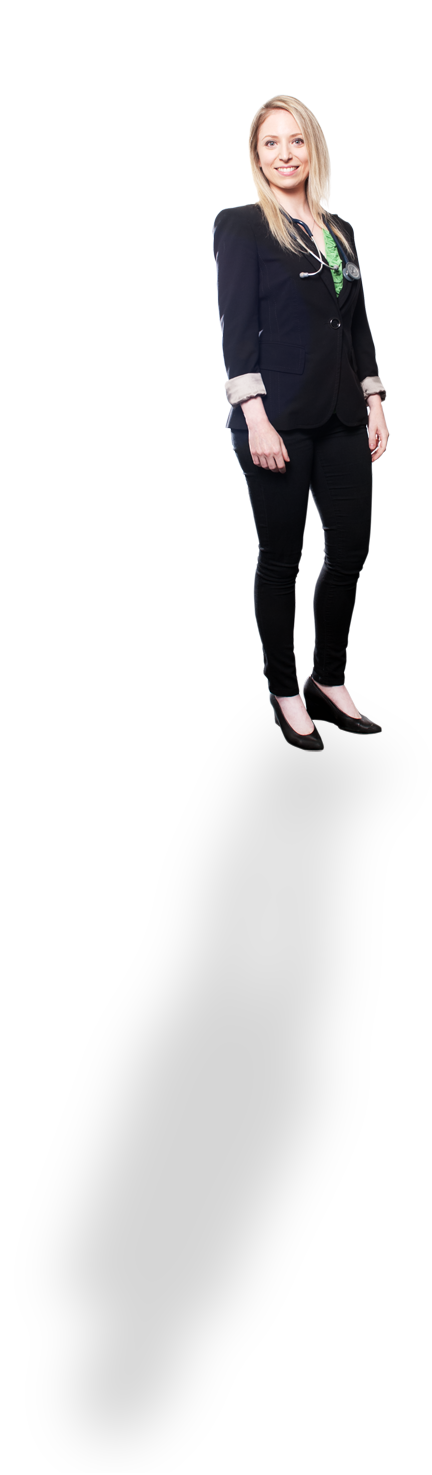
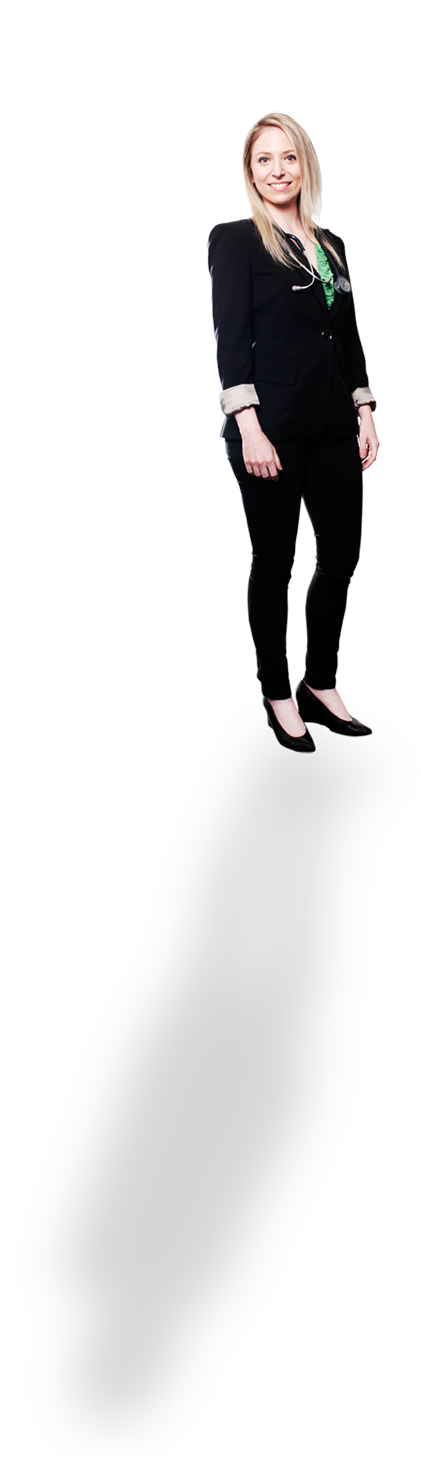
finish adding coach

Changed region(s): [[0.4941, 0.0624, 0.8955, 0.4678], [0.6176, 0.4054, 0.8955, 0.5302], [0.6793, 0.3119, 0.772, 0.4054]]

diff --git a/coaches.html b/coaches.html
@@ -85,13 +85,13 @@
     <!-------Content for MARDI BAUM------>
     <div class="contentContainer" id="cont2">
       <div class="contentBox">
-        <h1><span style='font-size:26px;'><span class='orangeText'>MARDI</span> BAUM</span></h1><p>As a naturopathic doctor, Dr. Mardi Baum is very passionate about health promotion, disease prevention and helping her patients feel their best. She believes that the body has a true ability to heal itself and that gentle, non-invasive approaches can help facilitate this healing process.</p><p>Dr. Baum runs a family practice, with a focus on nutrition and lifestyle counseling and supplementation.  She treats a variety of health conditions and has a special interest in digestive, hormonal and stress related concerns.</p><p>After a comprehensive intake and relevant lab work, Dr. Baum helps her patients achieve their goals through a customized treatment plan targeting the root cause of their health concerns.  She also places a strong emphasis on patient education. She believes an integrative approach is beneficial to optimal care and is committed to working with other health care practitioners. Dr. Baum is eager to expand her knowledge and regularly attends naturopathic conferences and seminars.</p><p>Dr. Baum has always enjoyed being active but has never felt better since starting to weight train at Reach Personal Training.  She is very excited to be joining the team.</p><p>Education and Certifications:</p><ul><li>Doctor of Naturopathic Medicine (ND) from The Canadian College of Naturopathic Medicine</li><li>1 month externship in Vietnam at a Traditional Chinese Medicine hospital</li><li>Pediatric specialty shift at the Robert Schad Naturopathic Clinic</li><li>Internship at the Anishnawbe Health Centre</li><li>Registered and in good standing with the Board of Directors of Drugless Therapy - Naturopathy</li><li>Level 1 Reiki</li><li>Healthy Breast Teacher Training Course</li><li>Healthy and Active Metabolism Program</li><li>BSc in Honours Psychology from The University of Western Ontario</li></ul>
+        <h1><span style='font-size:26px;'><span class='orangeText'>MARDI</span> BAUM</span></h1><p>As a naturopathic doctor, Dr. Mardi Baum is very passionate about health promotion, disease prevention and helping her patients feel their best. She believes that the body has a true ability to heal itself and that gentle, non-invasive approaches can help facilitate this healing process.</p><p>Dr. Baum runs a family practice, with a focus on nutrition and lifestyle counseling and supplementation.  She treats a variety of health conditions and has a special interest in digestive, hormonal and stress related concerns.</p><p>After a comprehensive intake and relevant lab work, Dr. Baum helps her patients achieve their goals through a customized treatment plan targeting the root cause of their health concerns.  She also places a strong emphasis on patient education. She believes an integrative approach is beneficial to optimal care and is committed to working with other health care practitioners. Dr. Baum is eager to expand her knowledge and regularly attends naturopathic conferences and seminars.</p><p>Dr. Baum has always enjoyed being active but has never felt better since starting to weight train at Reach Personal Training.  She is very excited to be joining the team.</p><p style="font-family: 'Gotham-Medium', sans-serif;">Education and certifications:</p><ul><li>Doctor of Naturopathic Medicine (ND) from The Canadian College of Naturopathic Medicine</li><li>1 month externship in Vietnam at a Traditional Chinese Medicine hospital</li><li>Pediatric specialty shift at the Robert Schad Naturopathic Clinic</li><li>Internship at the Anishnawbe Health Centre</li><li>Registered and in good standing with the Board of Directors of Drugless Therapy - Naturopathy</li><li>Level 1 Reiki</li><li>Healthy Breast Teacher Training Course</li><li>Healthy and Active Metabolism Program</li><li>BSc in Honours Psychology from The University of Western Ontario</li></ul>
       </div>
     </div>
     <!-------Content for JACOB LAY------>
     <div class="contentContainer" id="cont3">
       <div class="contentBox">
-        <h1><span style='font-size:26px;'><span class='orangeText'>JACOB</span> LAY</span></h1><p>Jacob firmly believes that a healthy psychology and internal awareness are the essential components of any type of training. Over the last 10 years he has been actively involved in the health and fitness industry as an athlete, trainer, practitioner and teacher.</p><p>Jacob has participated in the Training in Power Academy, an energy based meditation system. Jacob joined the faculty as a teacher of the foundational program last year and currently studies at an advanced level in multiple programs, including the Master Warrior program.</p><p>As a personal trainer and strength coach he is experienced and certified to help you obtain your goals in weight loss, structural balance, muscle gain and functional strength.</p><p><span style='font-weight:bold;'>Education and Certifications:</span><ul><li>Poliquin International Certification Program (P.I.C.P.) Level I and II Strength Coach (June 2012), Poliquin Performance</li><li>Upper Body Strength Certification, Ido Portal</li><li>Modified Strongman and Energy Systems Training, Eoin Lacey</li><li>Level 7 Training in Power Practitioner and Teacher, TIP Academy</li><li>Year 7 Master Warriors, TIP Academy</li><li>Traditional Chinese Medicine Practitioner, Dipl.TCM</li><li>BioSignature&#153; Practitioner, Poliquin Performance</li><li>Flexibility Highways &#8211; Dynamic Myofascial Training System, Chuck Wolf</li><li>Personal Training Specialist, CanFit Pro</li><li>First Aid and CPR certified</li></ul>
+        <h1><span style='font-size:26px;'><span class='orangeText'>JACOB</span> LAY</span></h1><p>Jacob firmly believes that a healthy psychology and internal awareness are the essential components of any type of training. Over the last 10 years he has been actively involved in the health and fitness industry as an athlete, trainer, practitioner and teacher.</p><p>Jacob has participated in the Training in Power Academy, an energy based meditation system. Jacob joined the faculty as a teacher of the foundational program last year and currently studies at an advanced level in multiple programs, including the Master Warrior program.</p><p>As a personal trainer and strength coach he is experienced and certified to help you obtain your goals in weight loss, structural balance, muscle gain and functional strength.</p><p style="font-family: 'Gotham-Medium', sans-serif;">Education and certifications:</p><ul><li>Poliquin International Certification Program (P.I.C.P.) Level I and II Strength Coach (June 2012), Poliquin Performance</li><li>Upper Body Strength Certification, Ido Portal</li><li>Modified Strongman and Energy Systems Training, Eoin Lacey</li><li>Level 7 Training in Power Practitioner and Teacher, TIP Academy</li><li>Year 7 Master Warriors, TIP Academy</li><li>Traditional Chinese Medicine Practitioner, Dipl.TCM</li><li>BioSignature&#153; Practitioner, Poliquin Performance</li><li>Flexibility Highways &#8211; Dynamic Myofascial Training System, Chuck Wolf</li><li>Personal Training Specialist, CanFit Pro</li><li>First Aid and CPR certified</li></ul>
       </div>
     </div>
      <!-------Content for ADENA CLARFIELD------>
@@ -103,13 +103,13 @@
     <!-------Content for BEN CLARFIELD------>
     <div class="contentContainer" id="cont5">
       <div class="contentBox">
-        <h1><span style='font-size:26px;'><span class='orangeText'>BEN</span> CLARFIELD</span></h1><p>Ben believes that achieving goals is dependent on both physical and mental strength. Ben helps his clients lose fat, rehabilitate injuries, build muscle and improve their strength. Ben is a Level II P.I.C.P. regional strength coach and BioSignature practitioner. Ben has trained with Charles Poliquin, one of the top strength coaches in the world, at the Eleiko Institute in Sweden and at the Poliquin Strength Institute in Rhode Island.</p><p>Ben has always participated in physical activity. A native of Kenya, Ben played rugby, ran track and field, played semi-professional basketball, achieved Dan ranking in WTF Taekwondo, travelled to Japan to train in Taijitsu, and is a former IDF soldier.</p><p>Ben moved back to Canada for university and injured his knee playing basketball. This experience taught him the process of rehabilitation and inspired him to help others.</p><span style='font-weight:bold;'>Education and Certifications:</span><ul><li>Poliquin International Certification Program (P.I.C.P.) Level I and II Strength Coach, Poliquin Performance</li><li>Poliquin Instant Muscle Strengthening Technique (PIMST), Poliquin Performance</li><li>Upper Body Strength Certification, Ido Portal</li><li>Modified Strongman and Energy Systems Training, Eoin Lacey</li><li>Internship with Preston Greene -Head Strength and Conditioning Coach of the University of Florida Gators Men&#39;s Basketball Team</li><li>John Broz Weightlifting Seminar</li><li>BioSignature&#153; Practitioner, Poliquin Performance</li><li>Personal Training Specialist, CanFit Pro</li><li>Masters Medieval Philosophy at the University of Toronto</li></ul>
+        <h1><span style='font-size:26px;'><span class='orangeText'>BEN</span> CLARFIELD</span></h1><p>Ben believes that achieving goals is dependent on both physical and mental strength. Ben helps his clients lose fat, rehabilitate injuries, build muscle and improve their strength. Ben is a Level II P.I.C.P. regional strength coach and BioSignature practitioner. Ben has trained with Charles Poliquin, one of the top strength coaches in the world, at the Eleiko Institute in Sweden and at the Poliquin Strength Institute in Rhode Island.</p><p>Ben has always participated in physical activity. A native of Kenya, Ben played rugby, ran track and field, played semi-professional basketball, achieved Dan ranking in WTF Taekwondo, travelled to Japan to train in Taijitsu, and is a former IDF soldier.</p><p>Ben moved back to Canada for university and injured his knee playing basketball. This experience taught him the process of rehabilitation and inspired him to help others.</p><p style="font-family: 'Gotham-Medium', sans-serif;">Education and certifications:</p><ul><li>Poliquin International Certification Program (P.I.C.P.) Level I and II Strength Coach, Poliquin Performance</li><li>Poliquin Instant Muscle Strengthening Technique (PIMST), Poliquin Performance</li><li>Upper Body Strength Certification, Ido Portal</li><li>Modified Strongman and Energy Systems Training, Eoin Lacey</li><li>Internship with Preston Greene -Head Strength and Conditioning Coach of the University of Florida Gators Men&#39;s Basketball Team</li><li>John Broz Weightlifting Seminar</li><li>BioSignature&#153; Practitioner, Poliquin Performance</li><li>Personal Training Specialist, CanFit Pro</li><li>Masters Medieval Philosophy at the University of Toronto</li></ul>
       </div>
     </div>
     <!-------Content for HEATHER CLAUS------>
     <div class="contentContainer" id="cont6">
       <div class="contentBox">
-        <h1><span style='font-size:26px;'><span class='orangeText'>HEATHER</span> CLAUS</h1></span><p>Clients who work with Heather receive a program customized to fit their lifestyle and needs. Heather&#39;s motto is work from the inside out to achieve your goals. She loves training clients and is a natural healer. The combination of the two is her yin and yang.</p><p>She has been in the fitness field for eleven years &#8211; personal training, educating, teaching pilates and group fitness. Her experience includes BioSignature Modulation, nutrition, strength training and flexibility/mobility.</p><p>Heather is also a fascial stretch therapist. With a background in pilates and rehab she took a stretch basics course and continued to become a certified as a Level II Fascial Stretch Therapist.</p><p>As a mother, Heather understands the challenges and the benefits of exercise and nutrition for the whole family. Heather became a personal trainer to share her passion for health with people, and give them the tools and inspiration to accomplish their fitness goals.</p><span style='font-weight:bold;'>Education and Certifications:</span><ul><li>Poliquin International Certification Program (P.I.C.P) Level I and II Strength Coach, Poliquin Performance</li><li>BioSignature&#153; Practitioner, Poliquin Performance</li><li>Biosignature&#153; CE, Poliquin Performance</li><li>FAT Tool, Poliquin Performance</li><li>Fascial Stretch Therapist Level 1 and 2, Stretch To Win</li><li>Stretch Basics, Darby Training Systems</li><li>Functional Assessment Exercise Progression, Darby Training Systems</li><li>Active Isolated Stretching, Stretching Canada</li><li>NeuroKinetic Therapy, Level 1, NKT</li><li>The Forum and Seminars, Landmark Education</li><li>Nutritionist, Precision Nutrition</li><li>Certified Pilates Mat and Integrated Movement Therapist, Second Wind Pilates</li></ul>
+        <h1><span style='font-size:26px;'><span class='orangeText'>HEATHER</span> CLAUS</h1></span><p>Clients who work with Heather receive a program customized to fit their lifestyle and needs. Heather&#39;s motto is work from the inside out to achieve your goals. She loves training clients and is a natural healer. The combination of the two is her yin and yang.</p><p>She has been in the fitness field for eleven years &#8211; personal training, educating, teaching pilates and group fitness. Her experience includes BioSignature Modulation, nutrition, strength training and flexibility/mobility.</p><p>Heather is also a fascial stretch therapist. With a background in pilates and rehab she took a stretch basics course and continued to become a certified as a Level II Fascial Stretch Therapist.</p><p>As a mother, Heather understands the challenges and the benefits of exercise and nutrition for the whole family. Heather became a personal trainer to share her passion for health with people, and give them the tools and inspiration to accomplish their fitness goals.</p><p style="font-family: 'Gotham-Medium', sans-serif;">Education and certifications:</p><ul><li>Poliquin International Certification Program (P.I.C.P) Level I and II Strength Coach, Poliquin Performance</li><li>BioSignature&#153; Practitioner, Poliquin Performance</li><li>Biosignature&#153; CE, Poliquin Performance</li><li>FAT Tool, Poliquin Performance</li><li>Fascial Stretch Therapist Level 1 and 2, Stretch To Win</li><li>Stretch Basics, Darby Training Systems</li><li>Functional Assessment Exercise Progression, Darby Training Systems</li><li>Active Isolated Stretching, Stretching Canada</li><li>NeuroKinetic Therapy, Level 1, NKT</li><li>The Forum and Seminars, Landmark Education</li><li>Nutritionist, Precision Nutrition</li><li>Certified Pilates Mat and Integrated Movement Therapist, Second Wind Pilates</li></ul>
       </div>
     </div>
     <!-------Navbar------>

diff --git a/treatment.html b/treatment.html
@@ -94,9 +94,32 @@
        <div class="contentBox" id="treatment3">
         <h1><span class="orangeText">NATURO</span>PATHY</h1>
        
-        <p>
-          Naturopathy, or naturopathic medicine, is a form of alternative medicine based on a belief in vitalism, which posits that a special energy called vital energy or vital force guides bodily processes such as metabolism, reproduction, growth, and adaptation. Naturopathy favors a holistic approach with non-invasive treatment and, similar to conventional medicine, encourages minimal use of surgery and drugs.
-        </p>
+        <p>Naturopathic doctors are trained as primary care physicians and are able to treat a wide variety of health concerns from acute to chronic, pediatric to geriatric, and physical to psychological.  In the absence of a particular concern or illness, we can also offer strategies for disease prevention and health promotion.</p>
+		<p>Naturopathic doctors are trained in a wide variety of treatment options, otherwise known as modalities. The most commonly used modalities are: clinical nutrition, lifestyle counselling, botanical medicine, Chinese medicine and homeopathy.</p>
+	<p>Conditions that are treated include but are not limited to:</p>
+	<ul>
+    	<li>Menstrual Concerns</li>
+        <li>Men’s and Women’s Health</li>
+        <li>Digestive Concerns</li>
+        <li>Allergies and Food Sensitivities</li>
+        <li>Immune System Health</li>
+        <li>Cardiovascular Health</li>
+        <li>Inflammatory Conditions</li>
+        <li>Pain Management</li>
+        <li>Detoxification and Weight Management</li>
+        <li>Stress Management</li>
+     </ul>
+     <p style="font-family: 'Gotham-Medium', sans-serif;">Lab Testing</p>
+	 <p>We use the results from specialized laboratory testing to confirm a suspected diagnosis or to gain a better understanding of your health concerns. We offer a wide range of diagnostic tests, including the standard ones you might receive from your medical doctor. Some of the tests we offer include:</p>
+	<p style="font-family: 'Gotham-Medium', sans-serif;">Conventional Blood Tests:</p>
+    <p>Common blood testing may include iron, cholesterol, blood sugar, thyroid, B12, liver enzymes etc.</p>
+	<p style="font-family: 'Gotham-Medium', sans-serif;">Hair Analysis:</p>
+    <p>Human hair can provide us with a good way of looking for levels of essential nutrients as well as high levels of toxins such as arsenic, aluminum, lead and mercury.  Conditions such as anxiety, depression, memory impairment and fatigue can be related to toxic elements.</p>
+	<p style="font-family: 'Gotham-Medium', sans-serif;">Food Allergy Testing:</p>
+    <p>Anaphylactic food reactions are not the only type of food allergy.  Through testing the blood, we have the ability to detect low-grade food sensitivities and intolerances,which may be causing a number of health complaints such as bloating, ADHD, irritable bowel syndrome, migraines, weight gain and rheumatoid arthritis.</p>
+	<p style="font-family: 'Gotham-Medium', sans-serif;">Saliva Hormone Testing:</p>
+    <p>These tests allow us to map out hormonal fluctuations and detect any possible imbalances.  These tests include: male panel, female panel, cortisol and a month-long hormonal assessment.  Some conditions associated with hormonal disturbances include weight gain, sleep disturbances, depression, hot flashes, bone loss, breast cancer, benign prostate hyperplasia (BPH) and erectile dysfunction.</p>
+	<p>It is recommended that all patients bring in copies of their latest blood work if possible.  Although not currently covered by OHIP, any additional testing that is required can be requisitioned by Dr. Baum through a Lifelabs location nearest you.</p>
       </div>
     </div>
     <!--------Navbar------>

diff --git a/css/coaches.css b/css/coaches.css
@@ -57,7 +57,7 @@ body{
 	top:45%;
 	left:60%;
 	height:47%;
-	width:20%;
+	width:22%;
 	display:none;
 	z-index:104;	
 }
@@ -66,7 +66,7 @@ body{
 	top:45%;
 	left:74%;
 	height:47%;
-	width:20%;
+	width:22%;
 	display:none;
 	z-index:105;	
 	
@@ -102,8 +102,8 @@ body{
 #mardi {
 	position:fixed;
 	top:15%;
-	left:14%;
-	width:20.5%;
+	left:15%;
+	width:21%;
 	height:100%;
 	z-index:98;
 }

diff --git a/css/overall.css b/css/overall.css
@@ -44,7 +44,7 @@ a:focus {
 }
 #logo a img {
 	position: absolute;
-	top:5px;
+	top:10px;
 	left:50px;
 	width: 350px;
 }
